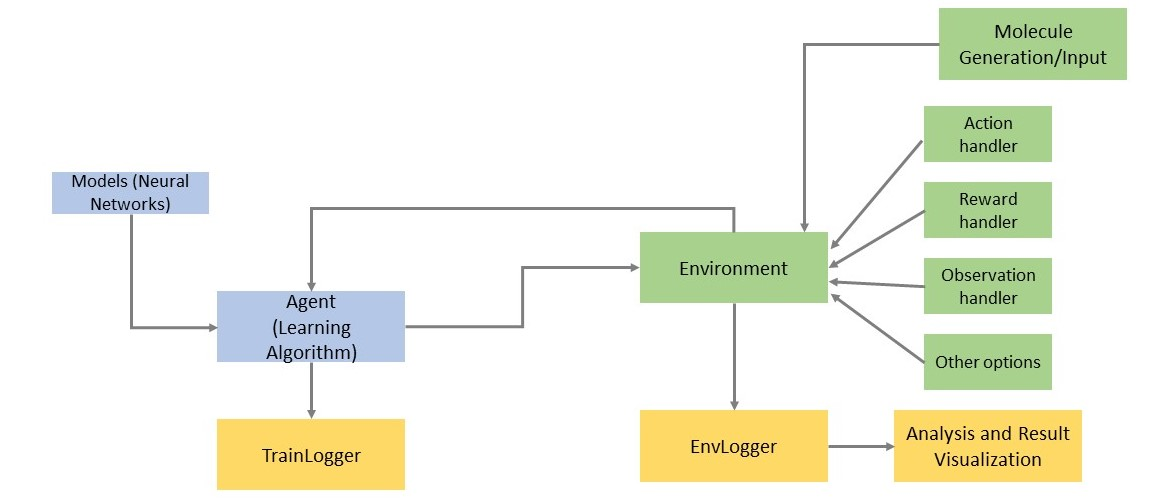
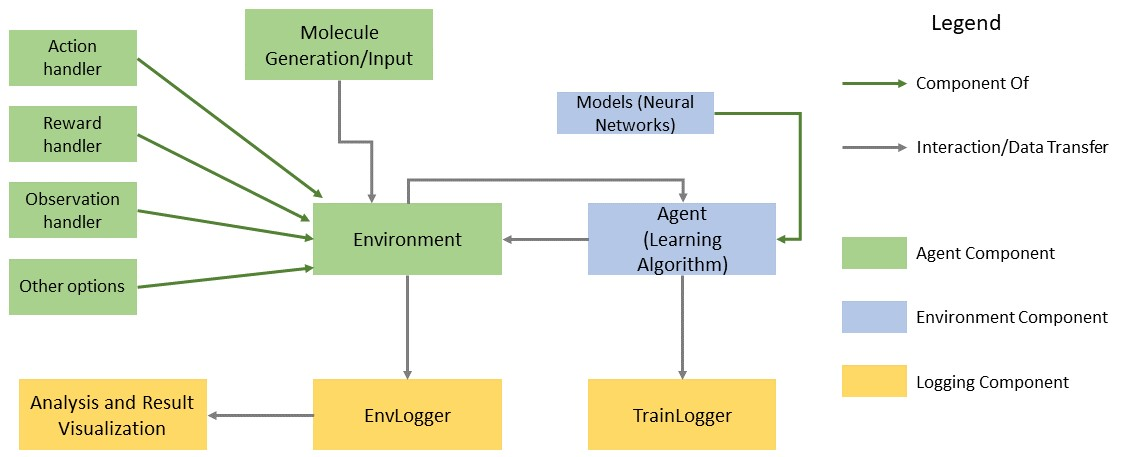
updated figures

diff --git a/mloss.tex b/mloss.tex
@@ -60,38 +60,42 @@
 
 \maketitle
 
-\newpage
+%\newpage
 
 \begin{abstract}%   <- trailing '%' for backward compatibility of .sty file
-  We present \code{\titleofpaper}, an open-source deep reinforcement learning library designed for molecular conformer generation using Python. The library contains modular interfaces for environments and agents, allowing users to easily build and test new implementations. Also included are several pre-built environments and agents based on state-of-the-art algorithms in the field to serve as baselines. Additionally, \code{\titleofpaper} comes with extensive logging and visualization tools for evaluation of agents and generated conformers, as well as a toolkit for generating and modifying molecules. \code{\titleofpaper} is well-tested and thoroughly documented, and is available through on PyPi and on Github: \url{https://github.com/ZimmermanGroup/conformer-rl}.
+  We present \code{\titleofpaper}, an open-source deep reinforcement learning library for molecular conformer generation using Python. The library contains modular interfaces for environments and agents, allowing users to easily build and test new implementations. We also include several pre-built environments and agents based on state-of-the-art algorithms to serve as baselines. Additionally, \code{\titleofpaper} comes with extensive logging and visualization tools for evaluation of agents and generated conformers, as well as a toolkit for generating and modifying molecules. \code{\titleofpaper} is well-tested and thoroughly documented, and is available through on PyPi and on Github: \url{https://github.com/ZimmermanGroup/conformer-rl}.
 \end{abstract}
 
 \begin{keywords}
   deep reinforcement learning, graph neural network, open source, conformer generation, computational chemistry
 \end{keywords}
 
-\section{Introduction}
-Recently, much progress has been made in the application of deep reinforcement learning to tasks in computational chemistry \citep{li2018foldingzero,zhou2017reactions,simm2020moldesign}. One task where deep reinforcement learning showed promising results is conformer generation \citep{gogineni2020torsionnet}, which involves finding an ensemble of unique low-energy three-dimensional orientations, or conformers, for a given molecule \citep{ebejer2020confgen}. Efficient and accurate prediction of low-energy conformers is integral to molecular modeling, with wide applications from drug development to 3D QSAR \citep{cole2018confgen}. Therefore, there is a need for a modular and extensible open-source software library for deep reinforcement learning applied to conformer generation.
-% \tarun{we should cite an example of one that does exist with these shortcomings} \runxuan{I think I mention a few specific shortcomings of existing papers/code in the next two paragraphs. Also there isn't a lot of papers specifically about conformer generation, but there are several about using RL with protein folding, so perhaps I can include an example of that.}
-In this paper, we introduce \code{\titleofpaper}, a comprehensive and modular Python library for applying deep reinforcement learning to conformer generation, using PyTorch \citep{torch} for deep learning and RDKit for chemoinformatic capabilities.
+\ambuj{paper format roughly based on \href{https://www.jmlr.org/papers/volume22/20-376/20-376.pdf}{ChainerRL}. also used this one but it is less related: \href{https://www.jmlr.org/papers/volume22/20-451/20-451.pdf}{Python Optimal Transport}}
 
-Many libraries already exist that contain benchmarking experiments and baseline implementations for general deep reinforcement learning. For example, OpenAI Gym \citep{brockman2016gym} and bsuite \citep{osband2020bsuite} both contain implementations of reinforcement learning environments commonly used for benchmarking agents, such as cartpole, mountaincar, and Atari. \code{\titleofpaper} seeks to fill this role within the conformer generation space by supplying pre-built environments for benchmarking agents. Additionally, \code{\titleofpaper} includes an environment interface to easily customize environments for further exploration. This allows \code{\titleofpaper}'s environment to be readily modified for other chemoinformatic tasks related to conformer generation, such as protein folding and reaction prediction.
+\section{Introduction}
+Several recent works have applied deep reinforcement learning to tasks in computational chemistry \citep{li2018foldingzero,zhou2017reactions,simm2020moldesign}. One task where deep reinforcement learning showed promising results is conformer generation \citep{gogineni2020torsionnet}, which involves finding an ensemble of unique low-energy three-dimensional orientations, or conformers, for a given molecule \citep{ebejer2020confgen}. Efficient and accurate prediction of low-energy conformers is integral to molecular modeling, with wide applications from drug development to 3D QSAR \citep{cole2018confgen}. Therefore, there is a need for a modular and extensible open-source software library for deep reinforcement learning applied to conformer generation.
+% \tarun{we should cite an example of one that does exist with these shortcomings} \runxuan{I think I mention a few specific shortcomings of existing papers/code in the next two paragraphs. Also there isn't a lot of papers specifically about conformer generation, but there are several about using RL with protein folding, so perhaps I can include an example of that.}
+In this paper, we introduce \code{\titleofpaper}, a comprehensive and modular Python library for applying deep reinforcement learning to conformer generation, using PyTorch \citep{torch} for deep learning and RDKit \ambuj{reference for RDKit?} for chemoinformatic capabilities.
+
+Many libraries already exist that contain benchmarking experiments and baseline implementations for general deep reinforcement learning. For example, OpenAI Gym \citep{brockman2016gym} and bsuite \citep{osband2020bsuite} both contain implementations of reinforcement learning environments such as cartpole, mountaincar, and Atari that are commonly used for benchmarking agents. \code{\titleofpaper} seeks to fill this role within the conformer generation space by supplying pre-built environments for benchmarking agents. Additionally, \code{\titleofpaper} includes an environment interface to easily customize environments for further exploration. This allows \code{\titleofpaper}'s environment to be readily modified for other chemoinformatic tasks related to conformer generation, such as protein folding and reaction prediction.
 
 There are also many implementations of baseline deep reinforcement learning agents available, such as RLlib \citep{liang2018rllib} and OpenAI baselines \citep{dhariwal2018baselines}. However, since the feature rich graphical representation of molecules is often unsupported out of the box in fixed vector state-based libraries, a large amount of modification and setup work is required to adapt these baseline libraries to work with molecular environments. Within \code{\titleofpaper}, we include a general agent base class for building agents compatible with conformer generation environments, as well as several baseline reinforcement learning algorithms. Also included are baseline implementations of neural network architectures for molecule inputs built with graph neural network (GNN) components using PyTorch Geometric \citep{fey2019geometric}.
 
-Additionally, \code{\titleofpaper} provides extensive logging capabilities and an analysis module for recording and visualizing training results, including conformer-generation specific metrics and visuals.
+Additionally, \code{\titleofpaper} provides extensive logging capabilities and an analysis module for recording and visualizing training results, including conformer-generation specific metrics and visuals. \ambuj{I think we can add some visuals, especially of molecules, to the paper to make this point more forcefully} \paul{seconding this comment}
 
 \begin{figure}[h]
   \centering
   \includegraphics[width=\textwidth]{architectures.jpg}
-  \caption{Architecture of \code{\titleofpaper}. Agent components are colored blue, environment components are colored green, and logging/analysis componenets are colored yellow.}
+  \caption{Architecture of \code{\titleofpaper}. 
+  % \paul{Conceptually, I'd think the horizontal axis should be flipped (ie most green boxs on the left, though environment centered would be nice). Rearrange the boxes so they flow in a more ordered way. Also, add legend with the color labels.}
+  }
   \label{fig:architecture}
 \end{figure}
 
 \section{\titleofpaper \space Architecture}
-  A visual representation of the architecture can be seen in figure 
-  \tarun{overall thoughts: we should describe more of the specific utils and conformer generation conveniences that we created, such as the molecule observation environments, or the reward counting via built in conformer rejection. As it stands most of the components we discuss here are not unique to our library.} \runxuan{I added a few sentences about specific examples of the environment handlers that are unique to our implementation. I think another option is to include an explicit list of the options available for each environment component but I think this is alreayd covered by the API reference.} 
-  \ref{fig:architecture}.
+  A visual representation of the architecture can be seen in Figure   \ref{fig:architecture}.
+  % \tarun{overall thoughts: we should describe more of the specific utils and conformer generation conveniences that we created, such as the molecule observation environments, or the reward counting via built in conformer rejection. As it stands most of the components we discuss here are not unique to our library.} \runxuan{I added a few sentences about specific examples of the environment handlers that are unique to our implementation. I think another option is to include an explicit list of the options available for each environment component but I think this is already covered by the API reference.} 
+
 
 \subsection{Environments}
 \code{\titleofpaper} environments are classes built on top of the \code{ConformerEnv} base class. The methods in \code{ConformerEnv} are implemented in a way so that each method corresponds to a different component within the environment, and is independent to the behavior of the other components. The main components include:
@@ -101,7 +105,7 @@ Additionally, \code{\titleofpaper} provides extensive logging capabilities and a
   \item \textbf{Reward Handler} returns a scalar reward based on the current configuration of the molecule. \code{\titleofpaper} includes several reward implementations derived from the energy of the current molecule conformoration, such as (but not limited to):
   \begin{itemize}
     \item \textbf{Basic Energy Reward} - basic reward that is inversely correlated with the energy of the current conformer.
-    \item \textbf{Pruning Energy Reward} - reward that "prunes" (returns a 0 reward) any conformer generated from an action already seen in the current episode.
+    \item \textbf{Pruning Energy Reward} - reward that ``prunes" (returns a 0 reward) any conformer generated from an action already seen in the current episode.
     % \item \textbf{Gibbs Score Reward} - the reward used in \citet{gogineni2020torsionnet}, which prunes conformers which are too similar to previously generated conformers based on a TFD (torsional fingerprint deviation) derived metric.
   \end{itemize}
 
@@ -121,9 +125,10 @@ For each environment component, \code{\titleofpaper} implements several pre-buil
 \code{\titleofpaper} also includes wrappers for executing multiple environments in parallel. 
 
   \subsubsection{Molecule Generation}
-  \code{\titleofpaper} environments are designed to configurable with different molecules, including user-generated ones. Environments are initialized with a \code{MolConfig} object, which specifies the RDKit molecule to be used in the environment and any molecule-specific parameters.
+  \code{\titleofpaper} environments are designed to be configurable with different molecules, including user-generated ones. The molecular structure is specified as an RDKit molecule object. As a mature cheminformatics library, RDKit offers a standard means of representing and manipulating molecules and can directly interface files from a number of computational chemistry packages including MOL files. RDKit is also at the core of a broad ecosystem of other cheminformatics packages including Open Babel which has extensive conversion capabilities for over 100 formats \citep{Oboyle2011openbabel}. Environments are initialized with a \code{MolConfig} object, which specifies the RDKit molecule to be used in the environment and any molecule-specific parameters.
 
-  For convenience, \code{\titleofpaper} contains scripts for generating \code{MolConfig} objects for several simple molecules and molecule benchmarks found in \citet{gogineni2020torsionnet}, such as branched alkanes, lignin, and more. Molecule generation scripts utilize several libraries depending on the molecule, including stk \citep{Turcani2021stk}, stko \citep{Tarzia2021stko} and Lignin-KMC \citep{Orella2019ligninkmc}, with several options for varying molecule size and structure.
+  For convenience, \code{\titleofpaper} contains scripts for generating \code{MolConfig} objects for several simple molecules and molecule benchmarks found in \citet{gogineni2020torsionnet}, such as branched alkanes, lignin, and more. Molecule generation scripts utilize several libraries depending on the molecule, including stk \citep{Turcani2021stk}, stko \citep{Tarzia2021stko} and Lignin-KMC \citep{Orella2019ligninkmc}, \ambuj{these last 3 refs are not showing up at least in my overleaf} with several options for varying molecule size and structure.
+  \paul{should we say something about the scope of possibilities? i.e. linear and branched molecules} The currently available conformer generating tools were developed under a model of independently varying torsions. This model is sufficient for linear and branched molecules as well as molecules with rigid ring structures. Adapting to flexible ring structures, in which ring torsions cannot all vary independently, would be a valuable future contribution.
   
   % \josh{Citations for dependencies: is the install\_requires in setup.py the full list of direct dependencies? Could be good to look through and check that we aren't missing important ones to cite if we haven't already. I was thinking it'd be good to include citations for stk and stko especially since the authors have been responsive and helpful, and this seems like a good place. \url{https://github.com/lukasturcani/stk}, \url{https://aip.scitation.org/doi/10.1063/5.0049708}. stko doesn't have a paper but we can cite the GitHub: \url{https://github.com/JelfsMaterialsGroup/stko}}.
 
@@ -140,7 +145,18 @@ The \code{\titleofpaper} library contains two types of loggers:
 \end{itemize}
 Both loggers are integrated into the \code{BaseAgent} and \code{ConformerEnv} interfaces, and are readily accessible when writing new agents or environments.
 
+\begin{figure}[h]
+  \centering
+  \includegraphics[scale=0.7]{molecules.png}
+  \caption{
+    Molecule visualizations generated by the \code{\titleofpaper} analysis toolkit.
+  }
+  \label{fig:molecules}
+\end{figure}
+
 \code{\titleofpaper} contains an analysis toolkit for calculating conformer-related metrics and visualizing results. The toolkit is designed to be used in a notebook and uses \code{seaborn} \citep{waskom2021seaborn} to generate figures and molecule visualization tools to generate interactive three-dimensional visuals for molecule conformers.
+
+
 
 \section{Usage and Documentation}
 \code{\titleofpaper} provides a detailed API reference, eight example scripts for training pre-built agents on pre-built environments, and a jupyter notebook showing example usage of the analysis toolkit on logged data. The quick start section of the documentation covers how to run the training scripts and create custom environments.
@@ -154,7 +170,7 @@ Both loggers are integrated into the \code{BaseAgent} and \code{ConformerEnv} in
 % Acknowledgements should go at the end, before appendices and references
 
 \acks{
-  We acknowledge the support of NSF via grants DMS-1646108 and IIS-2007055.
+  We acknowledge the support of NSF via grants DMS-1646108,  IIS-2007055, and CHE-1551994.
 }
 
 \vskip 0.2in
